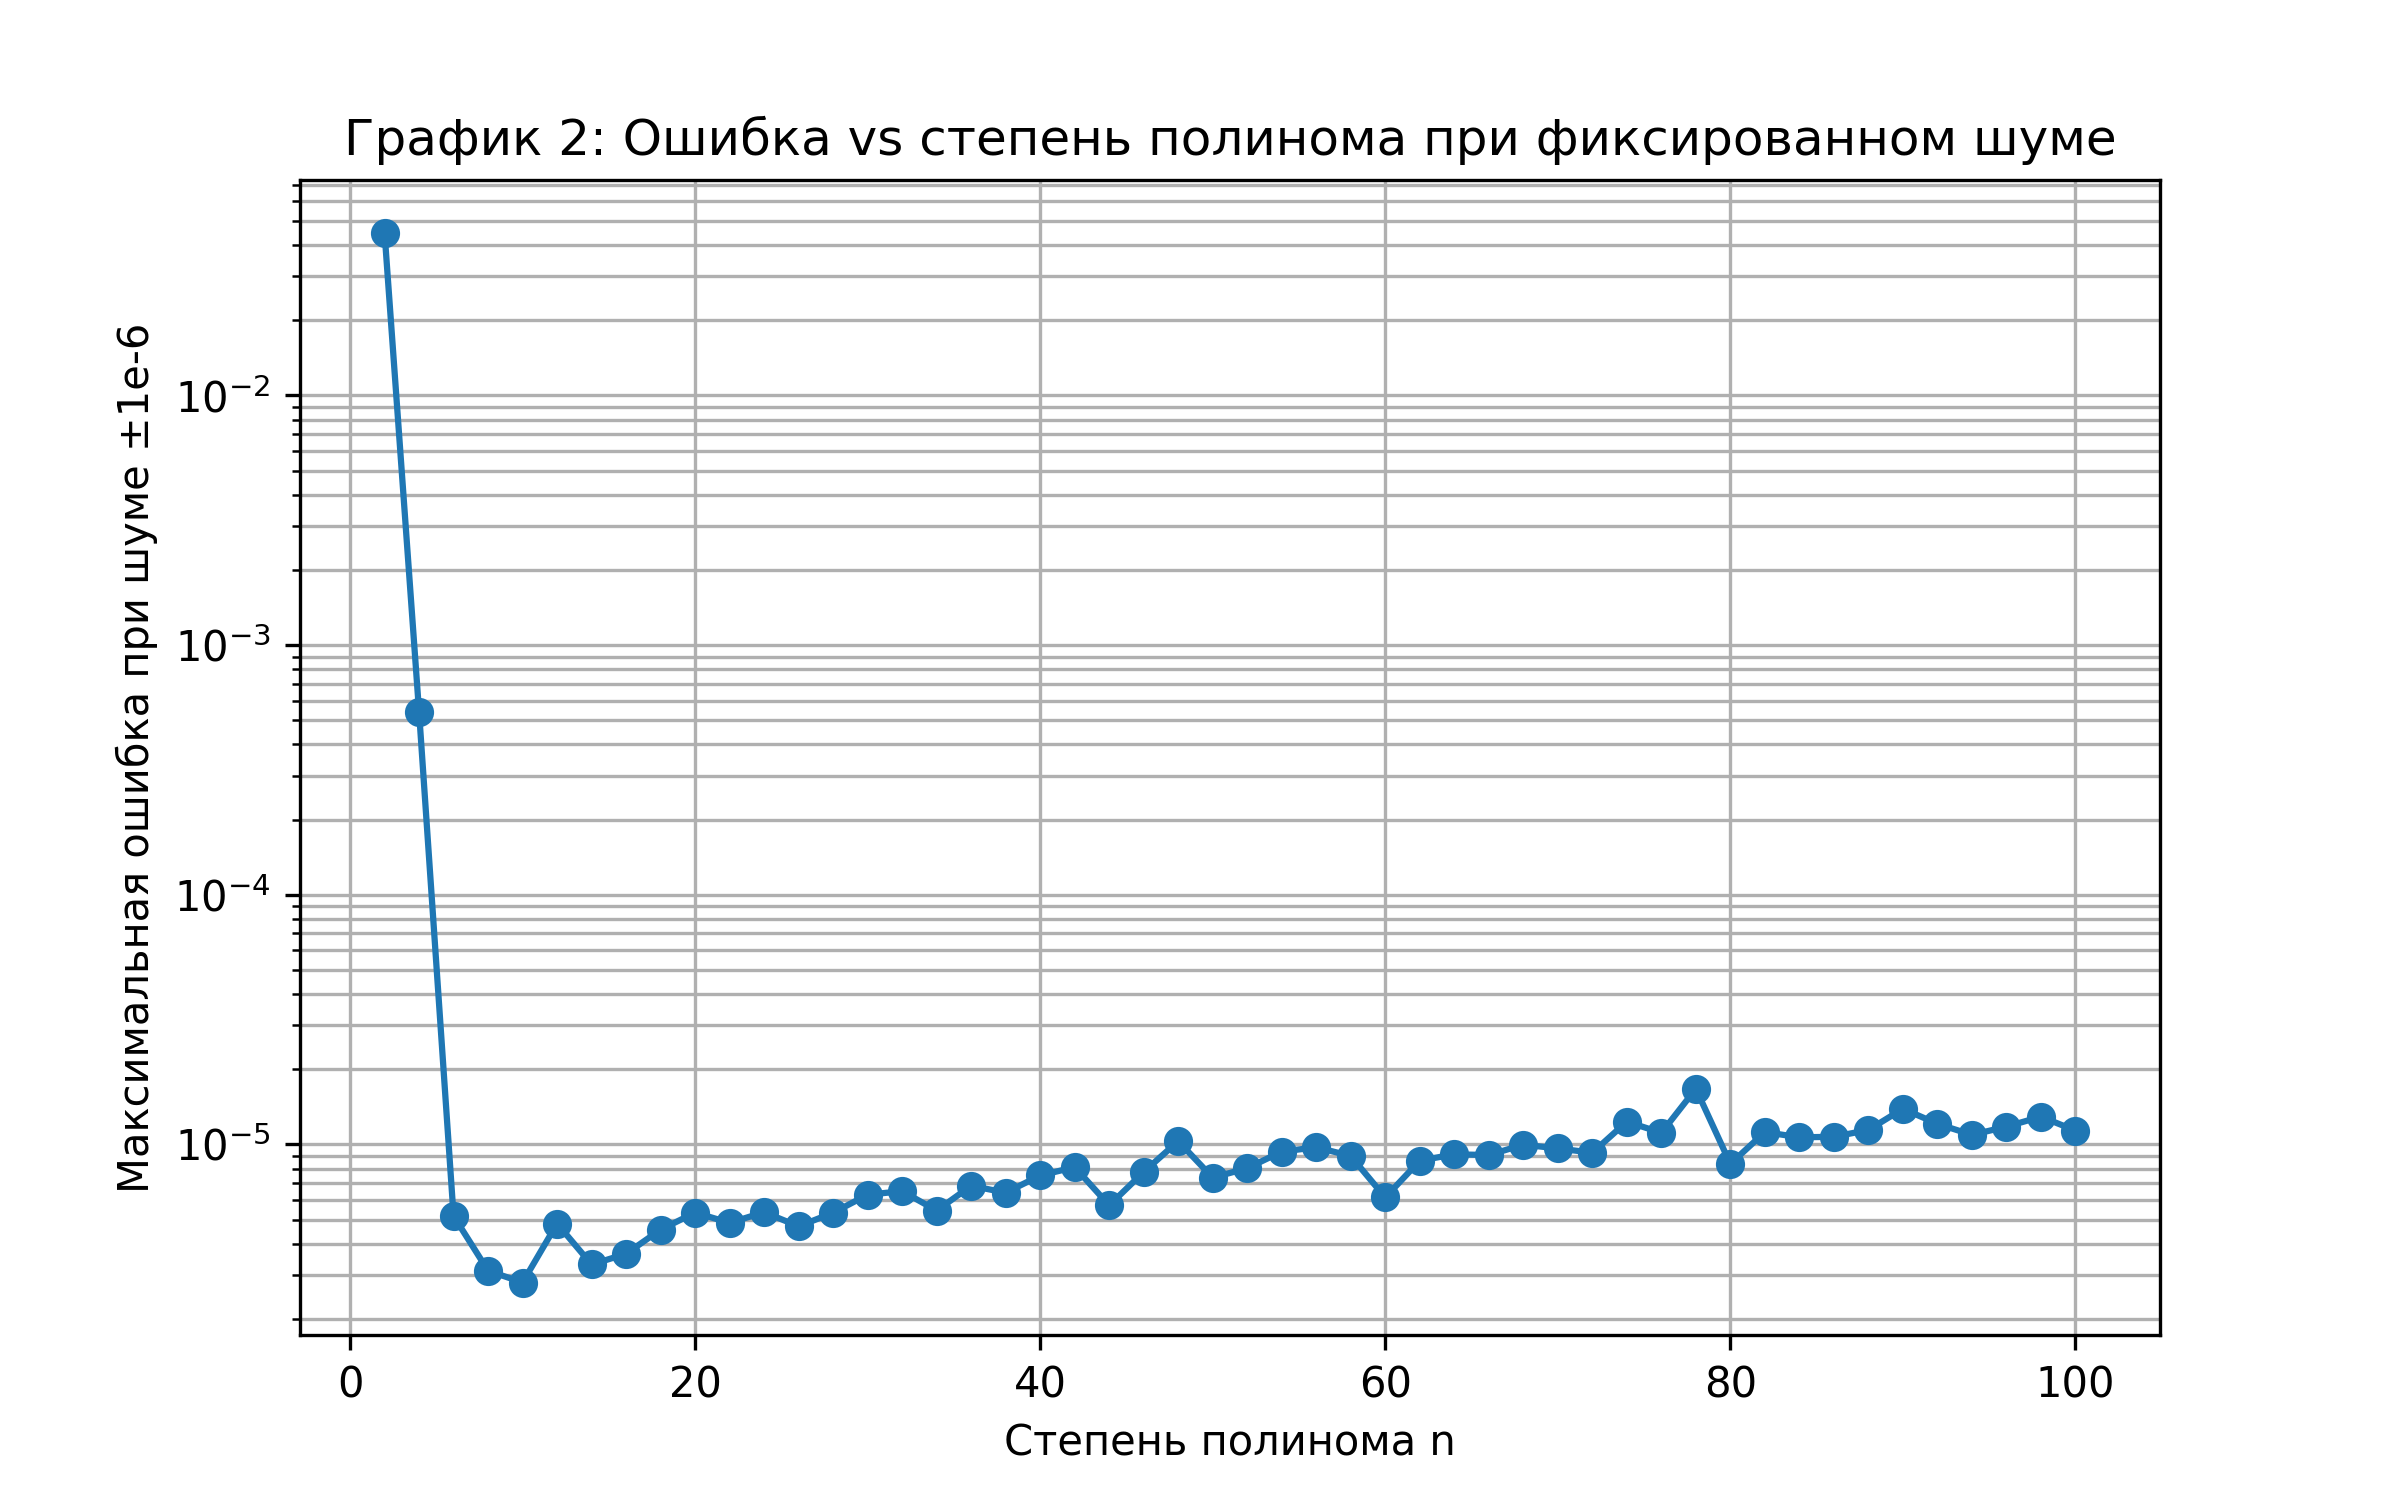
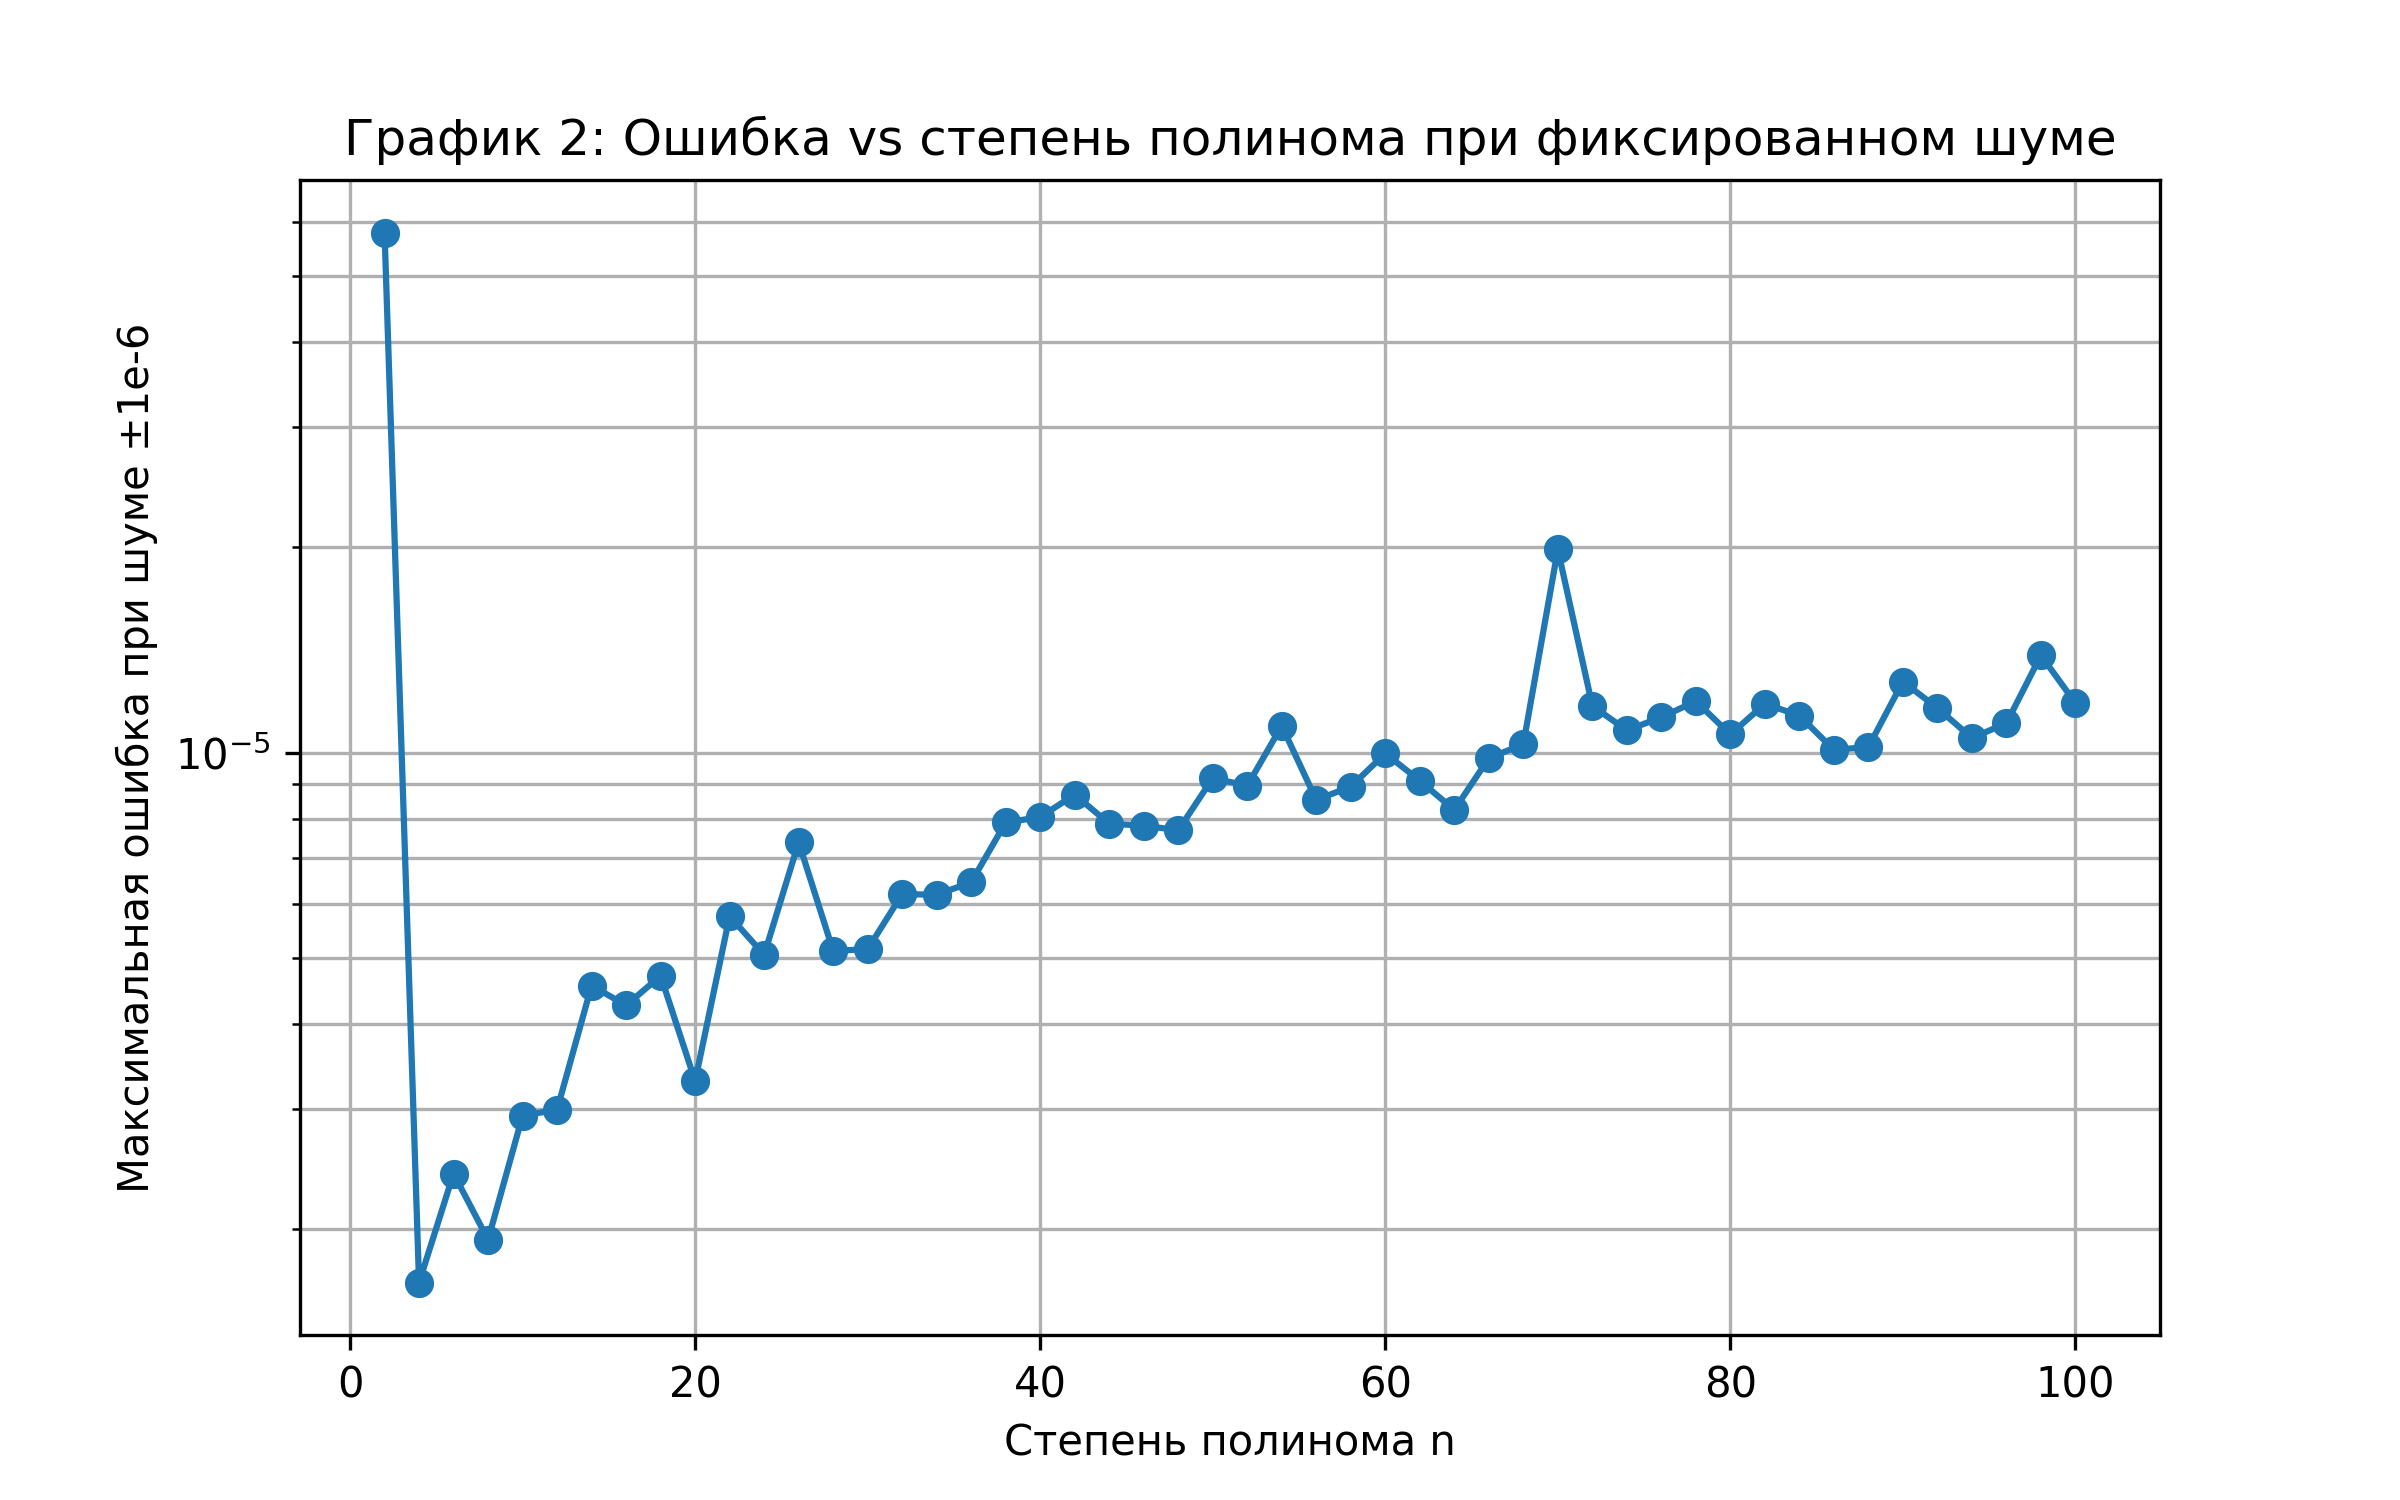
more_interesting_graphs

diff --git a/part1.py b/part1.py
@@ -16,7 +16,7 @@ def chebyshev_approximation(f, n):
     return cheb  # объект, реализующий функцию p(x)
 
 # Пример: аппроксимация sin(x) полиномом степени 5
-f = np.sin
+f = lambda x: np.sin(x * 3 * np.pi)
 p5 = chebyshev_approximation(f, 5)
 xs = np.linspace(-1, 1, 1000)
 error = np.max(np.abs(f(xs) - p5(xs)))
@@ -24,7 +24,7 @@ print("Макс. погрешность sin(x), n=5:", error)
 
 # Стабильность: добавим шум ±eps к коэффициентам и посмотрим ошибку
 n = 10
-p10 = chebyshev_approximation(np.sin, n)
+p10 = chebyshev_approximation(f, n)
 coeffs = p10.coef.copy()
 noise_levels = np.logspace(-9, -3, 7)
 errors = []
@@ -40,10 +40,10 @@ print("Ошибка vs шум в коэффициентах:", list(zip(noise_le
 import matplotlib.pyplot as plt
 
 funcs = {
-    'sin(x)': np.sin,
-    'cos(x)': np.cos,
-    'noisy sin': lambda x: np.sin(x) + np.random.uniform(-1e-6,1e-6, size=x.shape),
-    'poly': lambda x: 0.5*x**5 - x**3 + 2*x**2 - x + 1
+    'sin(x)': lambda x: np.sin(x * 3 * np.pi),
+    'cos(x)': lambda x: np.cos(x * 3 * np.pi),
+    'noisy sin': lambda x: np.sin(x * 3 * np.pi) + np.random.uniform(-1e-6,1e-6, size=x.shape),
+    'poly': lambda x: 0.9*x**10-0.5*x**5 - x**3 + 2*x**2 + x - 1
 }
 ns = list(range(2, 51)) + [256]
 for name, f in funcs.items():

diff --git a/part2.py b/part2.py
@@ -8,7 +8,7 @@ def chebyshev_approximation(f, n):
     y = f(x)
     return Chebyshev.fit(x, y, deg=n)
 
-f = np.sin
+f = lambda x: np.sin(x / 3 / np.pi)
 xs = np.linspace(-1, 1, 1000)
 f_true = f(xs)
 
